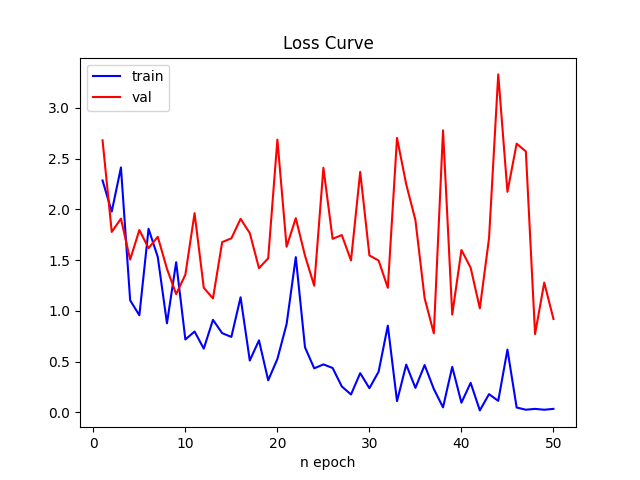
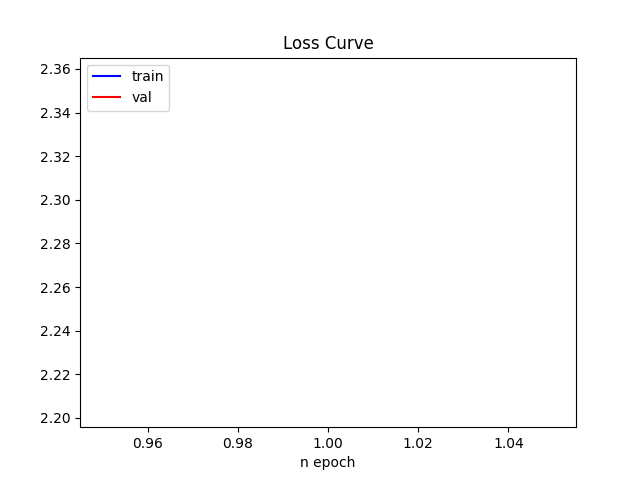
todo: remove test.csv img_path prefix

diff --git a/VGG.py b/VGG.py
@@ -180,7 +180,7 @@ train_loader = DataLoader(train_dataset, batch_size=64, shuffle=True)
 val_loader = DataLoader(val_dataset, batch_size=64, shuffle=True)
 test_loader = DataLoader(test_dataset, batch_size=64)
 
-num_epochs = 50
+num_epochs = 1
 learning_rate = 0.005
 
 # Loss and optimizer
@@ -245,7 +245,8 @@ plot(num_epochs, train_loss_list, val_loss_list, "Loss Curve")
 plot(num_epochs, train_acc, val_acc, "Accuracy Curve")
 
 # get # of parameters
-print(num_of_parameters = sum(p.numel() for p in model.parameters() if p.requires_grad))
+num_of_parameters = sum(p.numel() for p in model.parameters() if p.requires_grad)
+print(num_of_parameters)
 
 test_img = []
 test_predicted = []
@@ -254,7 +255,8 @@ with torch.no_grad():
         images = images.to(device)
         outputs = model(images)
         _, predicted = torch.max(outputs.data, 1)
-        test_predicted.extend(predicted.numpy())
+        temp = predicted.cpu().numpy()
+        test_predicted.extend(temp)
         test_img.extend(img_path)
         del images, outputs
 
